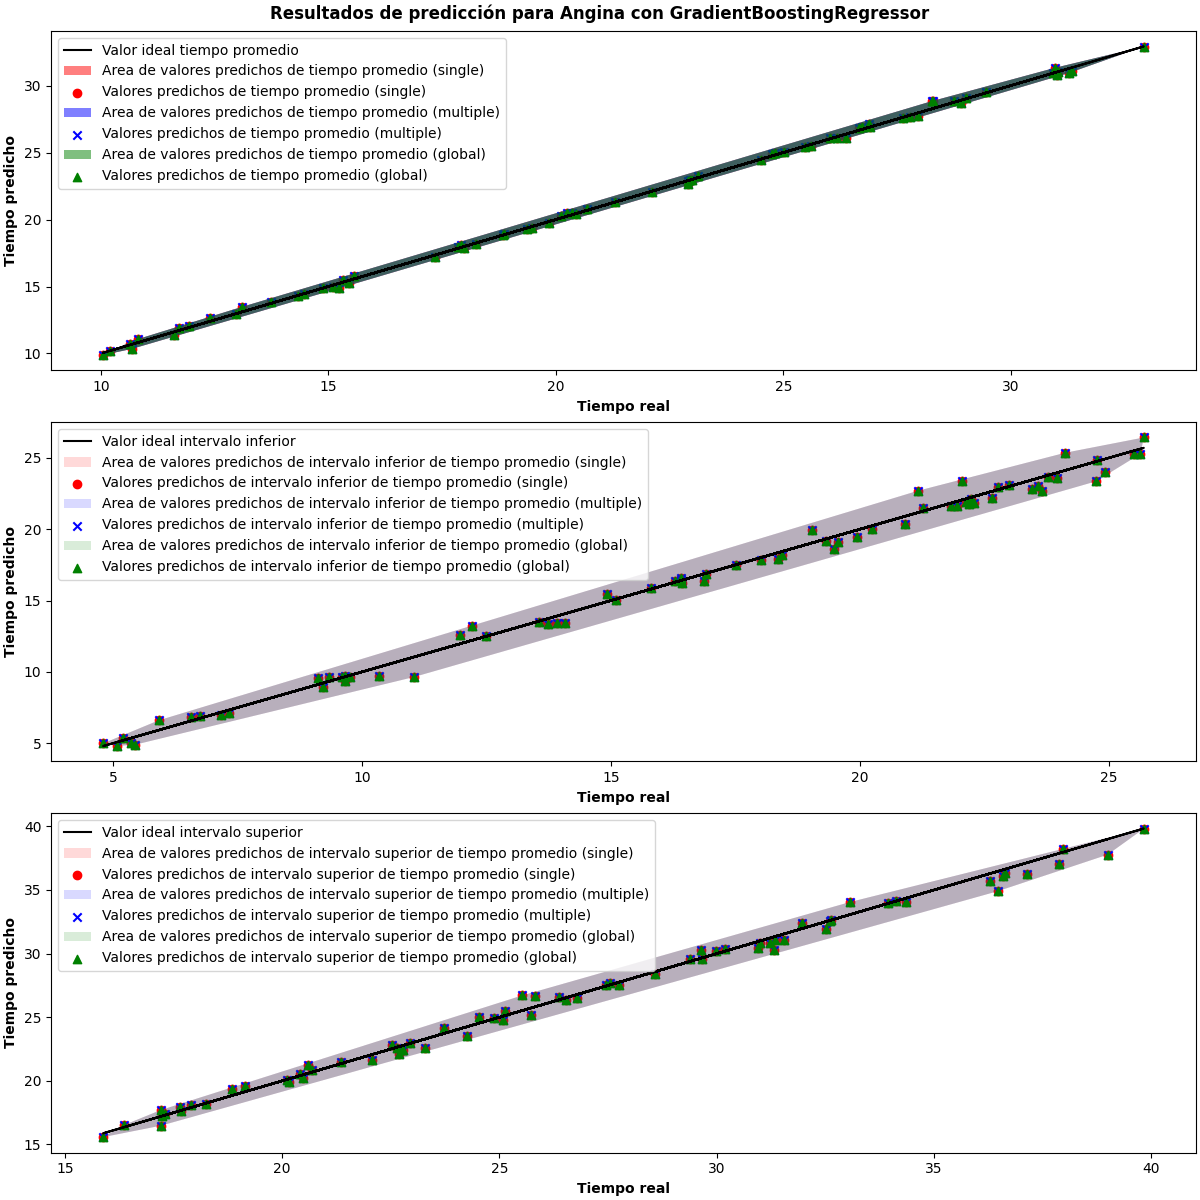
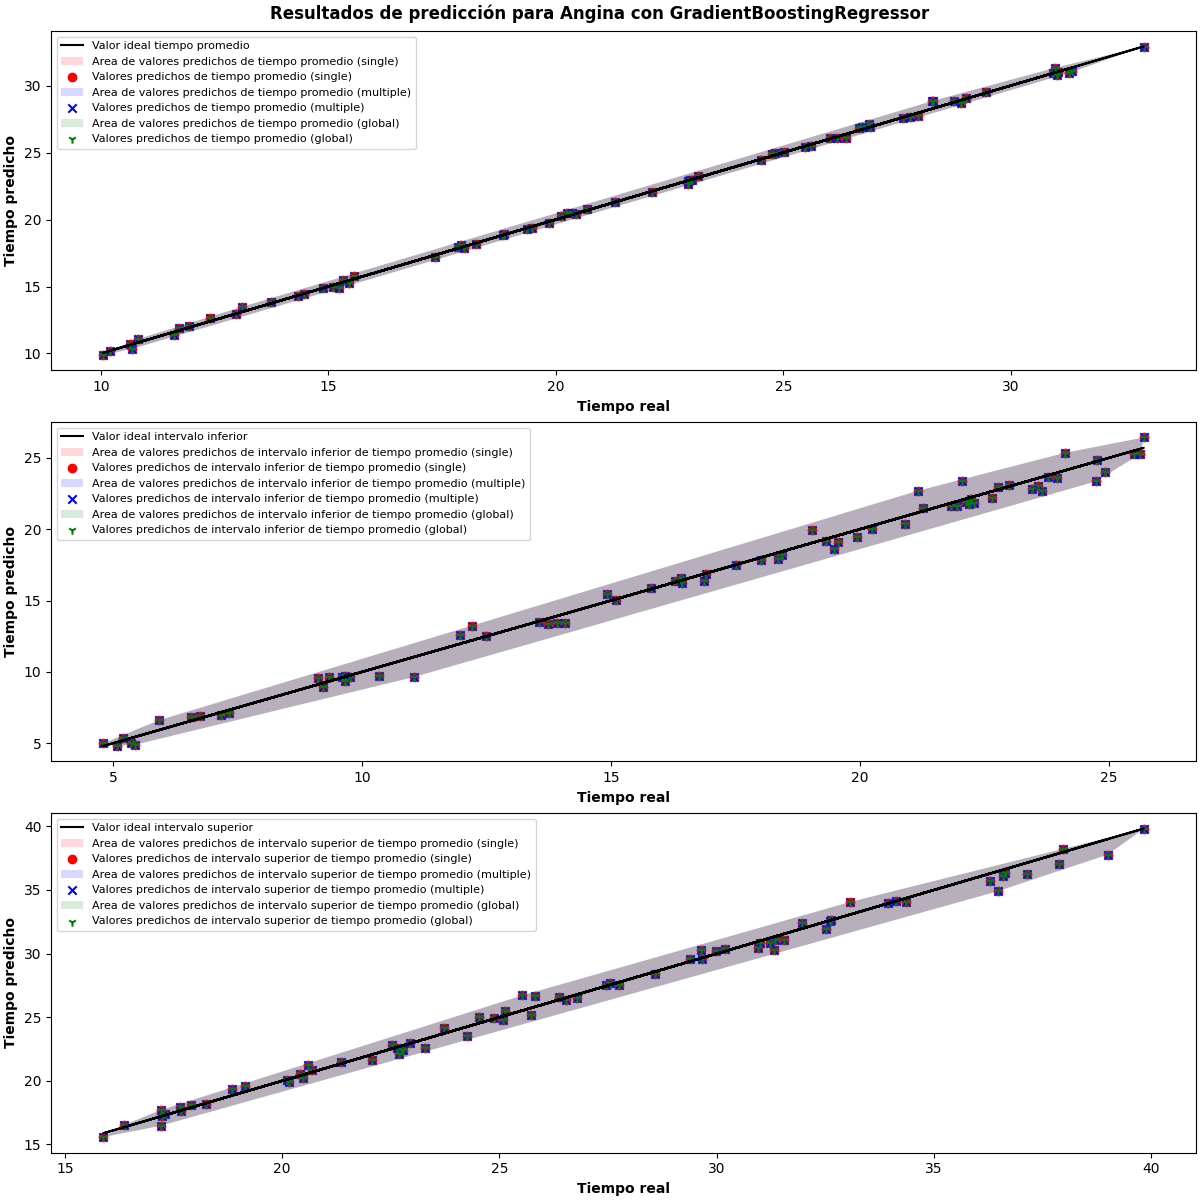
Arreglada tamaño leyenda

diff --git a/src/scripts/compare.py b/src/scripts/compare.py
@@ -384,7 +384,7 @@ def compare_values_by_type(model_list: List[str], path=st.R2_TABLE_DIR) -> None:
 
     # Grafica los puntos de tiempo promedio
     ax[0].fill(global_avg_points[global_avg_hull.vertices, 0], global_avg_points[global_avg_hull.vertices, 1], 'g', alpha=0.15, label='Area de valores predichos de tiempo promedio (global)')
-    ax[0].scatter(y_test.iloc[:, 0], y_pred_global.iloc[:, 0], color='green',  marker='^', label='Valores predichos de tiempo promedio (global)')
+    ax[0].scatter(y_test.iloc[:, 0], y_pred_global.iloc[:, 0], color='green',  marker='1', label='Valores predichos de tiempo promedio (global)')
 
     # Grafica los puntos de tiempo promedio ideal
     ax[1].plot(y_test.iloc[:, 1], y_test.iloc[:, 1], color='black', label='Valor ideal intervalo inferior')
@@ -399,7 +399,7 @@ def compare_values_by_type(model_list: List[str], path=st.R2_TABLE_DIR) -> None:
 
     # Grafica los puntos de intervalo inferior de tiempo promedio
     ax[1].fill(global_avg_l95ci_points[global_avg_l95ci_hull.vertices, 0], global_avg_l95ci_points[global_avg_l95ci_hull.vertices, 1], 'g', alpha=0.15, label='Area de valores predichos de intervalo inferior de tiempo promedio (global)')
-    ax[1].scatter(y_test.iloc[:, 1], y_pred_global.iloc[:, 1], color='green',  marker='^', label='Valores predichos de intervalo inferior de tiempo promedio (global)')
+    ax[1].scatter(y_test.iloc[:, 1], y_pred_global.iloc[:, 1], color='green',  marker='1', label='Valores predichos de intervalo inferior de tiempo promedio (global)')
 
     # Grafica los puntos de tiempo promedio ideal
     ax[2].plot(y_test.iloc[:, 2], y_test.iloc[:, 2], color='black', label='Valor ideal intervalo superior')
@@ -414,12 +414,12 @@ def compare_values_by_type(model_list: List[str], path=st.R2_TABLE_DIR) -> None:
 
     # Grafica los puntos de intervalo superior de tiempo promedio
     ax[2].fill(global_avg_u95ci_points[global_avg_u95ci_hull.vertices, 0], global_avg_u95ci_points[global_avg_u95ci_hull.vertices, 1], 'g', alpha=0.15, label='Area de valores predichos de intervalo superior de tiempo promedio (global)')
-    ax[2].scatter(y_test.iloc[:, 2], y_pred_global.iloc[:, 2], color='green',  marker='^', label='Valores predichos de intervalo superior de tiempo promedio (global)')
+    ax[2].scatter(y_test.iloc[:, 2], y_pred_global.iloc[:, 2], color='green',  marker='1', label='Valores predichos de intervalo superior de tiempo promedio (global)')
 
     # Agrega una leyenda
-    ax[0].legend(fontsize='10')
-    ax[1].legend(fontsize='10')
-    ax[2].legend(fontsize='10')
+    ax[0].legend(fontsize='8')
+    ax[1].legend(fontsize='8')
+    ax[2].legend(fontsize='8')
 
     # Agrega etiquetas a los ejes
     for i in range(3):
